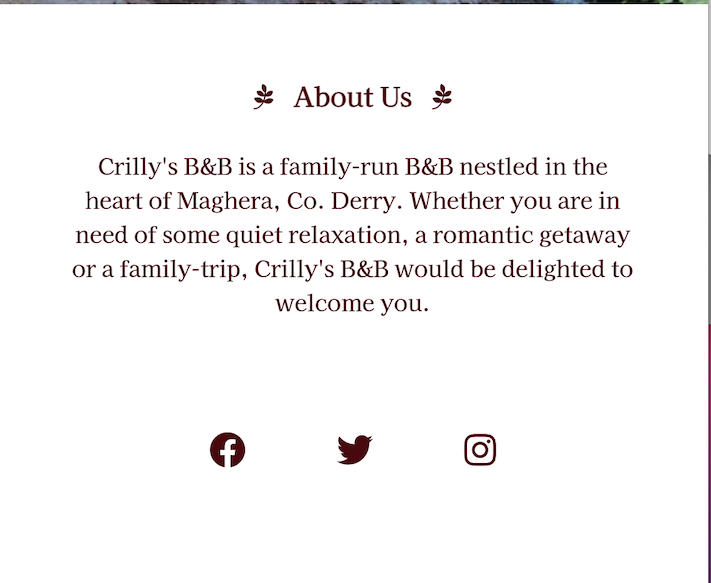
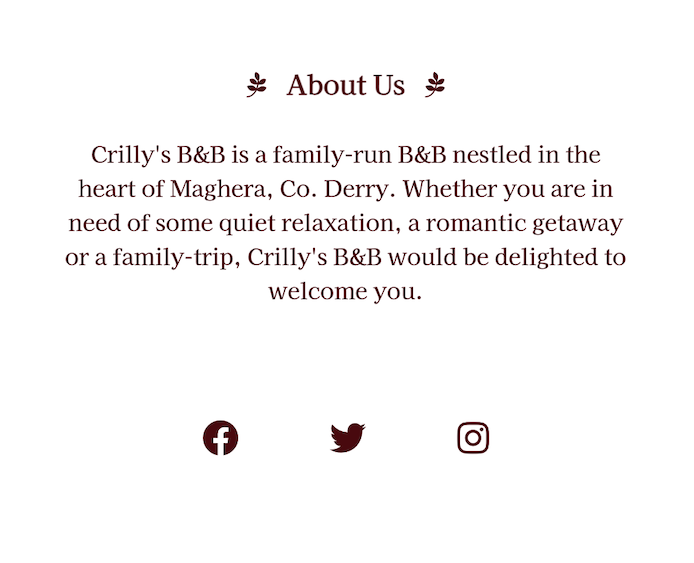
Updated image and text content in Features section of Readme.

diff --git a/README.md b/README.md
@@ -165,10 +165,11 @@ Mobile:
 
   * It includes centered social media links which open in new tabs. 
 
+  * The aim is for a clean and minimlaist look for the footer.
+
 Desktop: 
 
 ![Image of desktop footer](assets/images/desktop-footer.png)
-
 
 Mobile:
 
@@ -176,10 +177,67 @@ Mobile:
 
 * Rooms 
 
+  * The Rooms page displays two large images of available rooms at the B&B.
+  * The overlay text on each image states the price per night and an additional booking button to take customers to the contact/booking page straight away.
+
+Desktop:
+
+![Image of Desktop Rooms](assets/images/rooms-desktop.png)
+
+Mobile:
+
+![Image of Mobile Rooms](assets/images/rooms-mobile.png)
+
 * See and do 
+
+  * The 'See and do' page contains suggestions for recreational activities within driving distance of the B&B.
+  * There is a short introductory text on each activity with an accompanying image.
+  * Each activity has a link to the relevant social media or website page through which guests can find specific locations and directions. Each of theese links opens in a new tab.
+  * On smaller screens, the images adjust so that they become smaller to allow the full text to be seen, without stretching or distorting the images.
+
+Desktop:
+
+![Image of Desktop See and do](assets/images/seedo-desktop.png)
+
+Mobile:
+
+![Image of Mobile See and do](assets/images/seedo-mobile.png)
+
+* Contact
+
+  * The contact page contains a large image of a fireplace to evoke feelings of cosiness and warmth.
+  * There is a contact form overlaying the main image where guests can submit queries or directly make a booking request. The button on this form changes colour when hovered over.
+  * The name and email fields are required and a validation error message pops up if the user tries to submit the form with information missing from these fields.
+  * The email addresss needs to be in a valid format - a validation error message pops up if the format is incorrect.
+
+Desktop:
+
+![Image of Desktop Contact](assets/images/contact-desktop.png)
+
+Mobile:
+
+![Image of Mobile Contact](assets/images/contact-mobile.png)
+
+* Directions section
+
+  * This section is located at the bottom of the Contact page adnd comprises of an embedded Google Map and Directions text.
+  * On smaller screens, the map gets stacked on top of the text instead of side by side.
+
+Desktop:
+
+![Image of Desktop Directions](assets/images/directions-desktop.png)
+
+Mobile:
+
+![Image of Mobile Directions](assets/images/directions-mobile.png)
 
 ### Features To be Implemented in Future:
 
+Rooms - additional pictures with javascript scroll
+
+contact us form may evolve into arrival and departusre dates
+
+Add more imagery in a gallery to give an insight into the catering servicweces at the B&B and a diverse customer base to reflect the companies commitment to diversity and inclusion . 
 
 -
 
